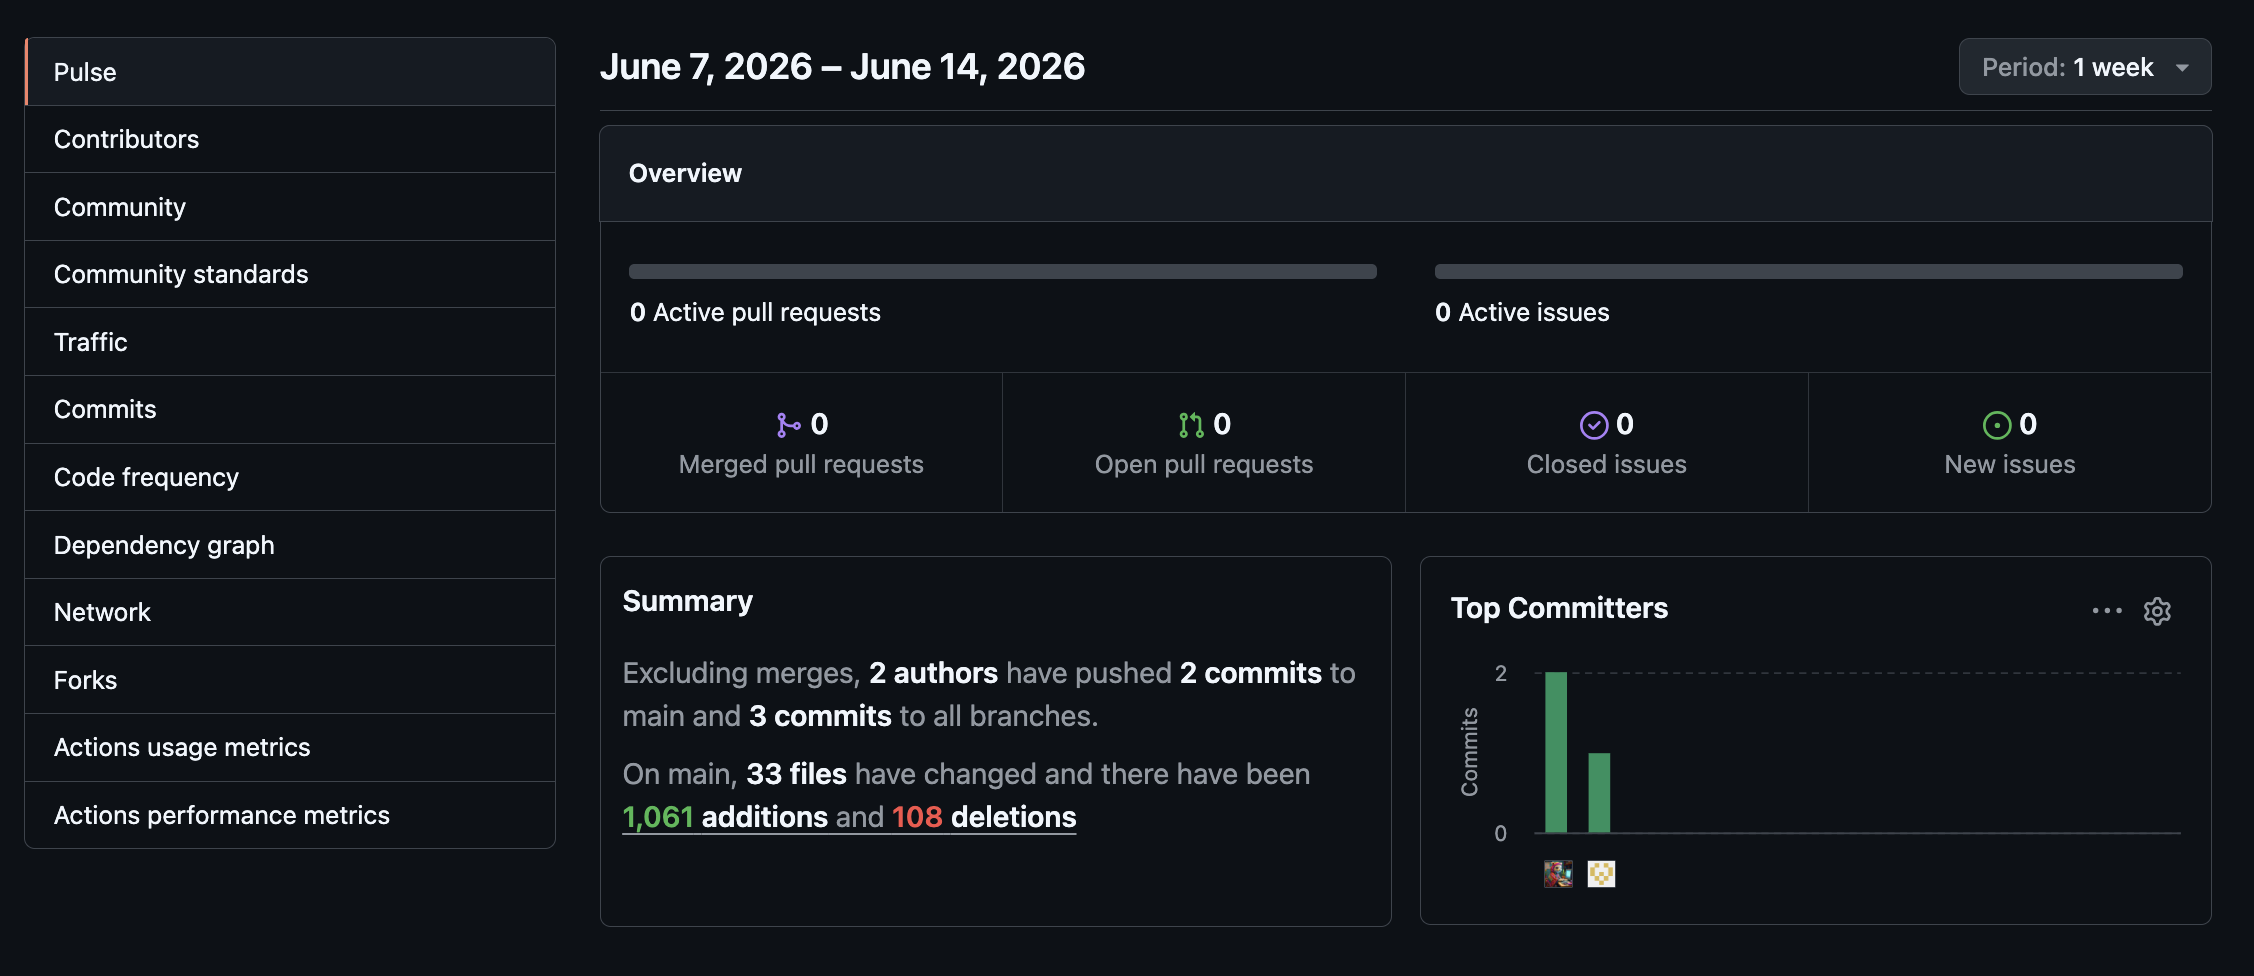
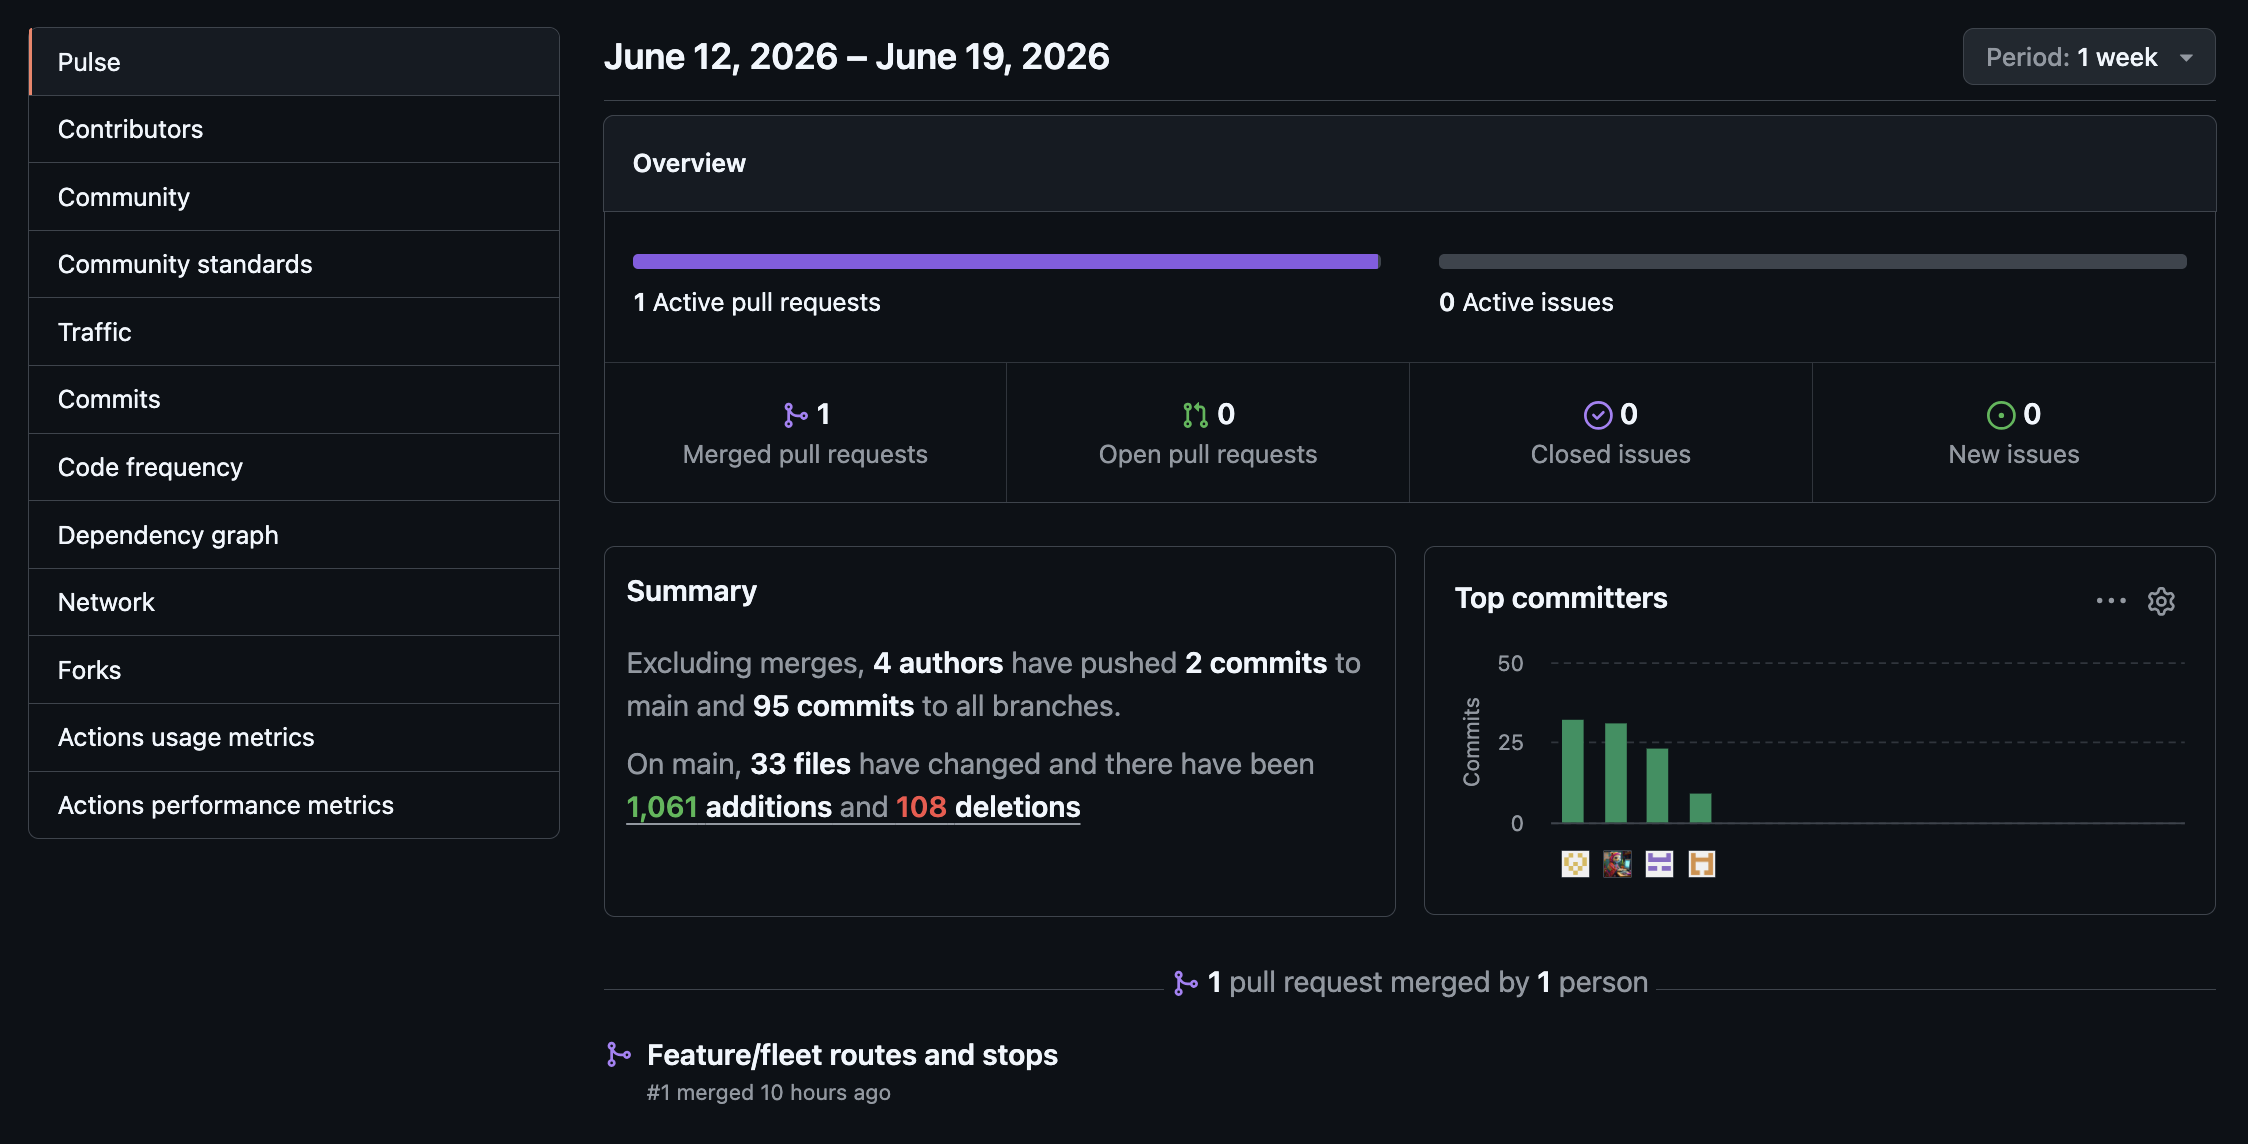
docs: update sprint3 images

diff --git a/README.md b/README.md
@@ -46,6 +46,9 @@ El equipo ha utilizado un flujo de trabajo en github: [https://github.com/FiveTe
 
 ![Contributors](./assets/images/web-app/contributors-webapp.png)
 
+### Sprint 3
+
+![Contributors](./assets/images/sprint3/contributors.png)
 ---
 
 ## Contenido
